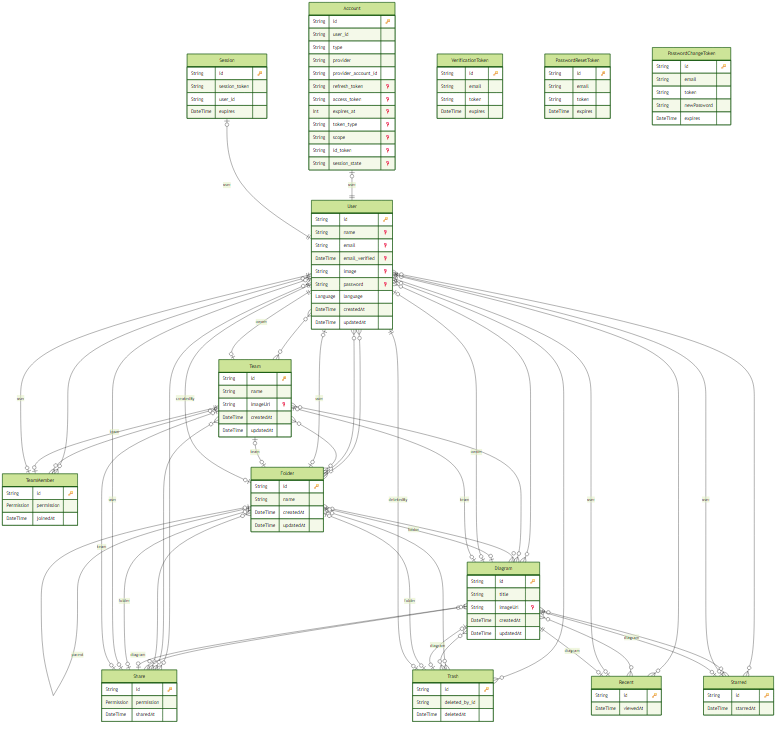
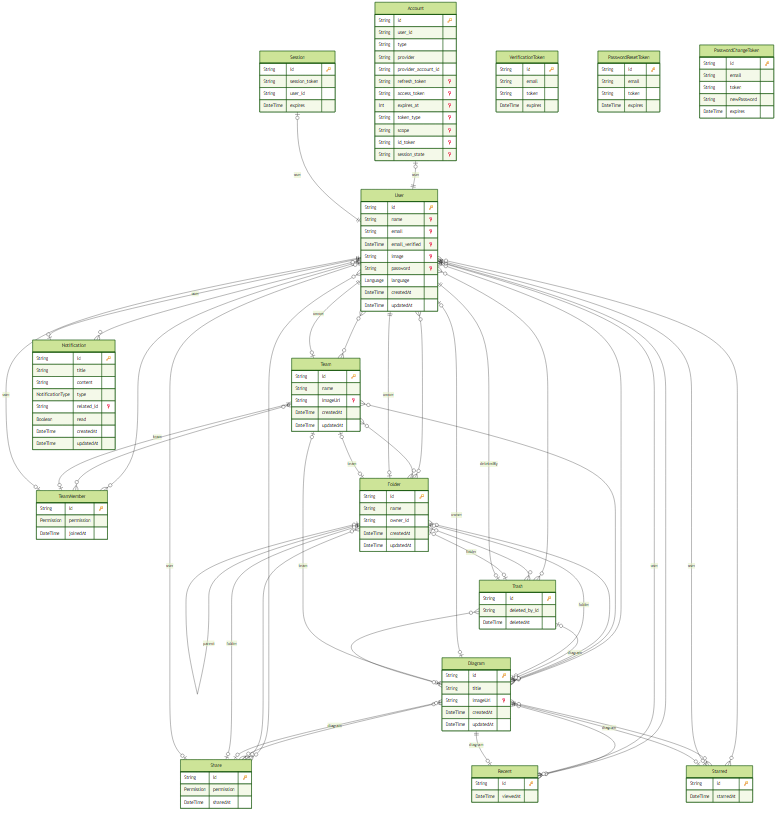
Refactor sidebar component and update Prisma schema
- Introduced a new Logo component to streamline sidebar branding.
- Updated the AppSidebar to utilize the new Logo component for improved code organization.
- Added a NotificationType enum to the Prisma schema for better notification management.
- Enhanced the User model with a notifications field to track user notifications.
- Adjusted Folder and Trash models for consistency in field naming and relationships.

diff --git a/knowledge-visualization/app/_components/app-sidebar.tsx b/knowledge-visualization/app/_components/app-sidebar.tsx
@@ -10,7 +10,6 @@ import {
   SidebarSeparator,
 } from "@/components/ui/sidebar";
 import Link from "next/link";
-import { AuroraText } from "@/components/ui/aurora-text";
 import {
   Clock,
   FileText,
@@ -20,6 +19,7 @@ import {
   Trash,
 } from "lucide-react";
 import { usePathname } from "next/navigation";
+import { Logo } from "./logo";
 
 export function AppSidebar() {
   const pathname = usePathname();
@@ -60,18 +60,14 @@ export function AppSidebar() {
   return (
     <Sidebar collapsible="icon">
       <SidebarHeader>
-        <Link
-          href="/dashboard"
-          className="text-2xl font-bold inline-block group-data-[collapsible=icon]:hidden text-center cursor-pointer"
-        >
-          <AuroraText>Knovion</AuroraText>
-        </Link>
-        <Link
-          href="/dashboard"
-          className="text-2xl font-bold hidden group-data-[collapsible=icon]:inline-block text-center cursor-pointer"
-        >
-          <AuroraText>K</AuroraText>
-        </Link>
+        <Logo
+          className="py-2 group-data-[collapsible=icon]:hidden"
+          text="Knovion"
+        />
+        <Logo
+          className="hidden group-data-[collapsible=icon]:inline-block"
+          text="K"
+        />
       </SidebarHeader>
       <SidebarSeparator className="max-w-[90%] mx-auto" />
       <SidebarContent>
@@ -80,13 +76,15 @@ export function AppSidebar() {
             <SidebarMenuItem key={item.href}>
               <SidebarMenuButton
                 size="lg"
-                className="rounded-2xl px-4"
+                className="group-data-[collapsible=icon]:flex group-data-[collapsible=icon]:items-center group-data-[collapsible=icon]:justify-center rounded-2xl px-4"
                 isActive={pathname === item.href}
                 asChild
               >
                 <Link href={item.href}>
                   {item.icon}
-                  <span>{item.label}</span>
+                  <span className="group-data-[collapsible=icon]:hidden">
+                    {item.label}
+                  </span>
                 </Link>
               </SidebarMenuButton>
             </SidebarMenuItem>

diff --git a/knowledge-visualization/app/_components/logo.tsx b/knowledge-visualization/app/_components/logo.tsx
@@ -1,0 +1,17 @@
+import { AuroraText } from "@/components/ui/aurora-text";
+import Link from "next/link";
+import { cn } from "@/lib/utils";
+
+export function Logo({ text, className }: { text: string; className: string }) {
+  return (
+    <Link
+      href="/dashboard"
+      className={cn(
+        "text-2xl font-bold inline-block text-center cursor-pointer",
+        className
+      )}
+    >
+      <AuroraText>{text}</AuroraText>
+    </Link>
+  );
+}
